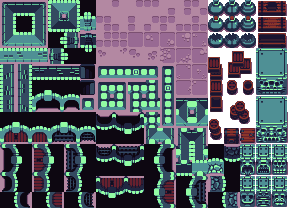
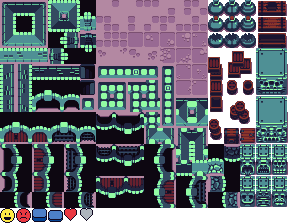
refactor: unite tilesheets

diff --git a/src/main.rs b/src/main.rs
@@ -16,7 +16,6 @@ const LEVEL_WIDTH: usize = 16;
 
 /// Global data passed to all systems
 pub struct Context {
-    spritesheet: Texture2D,
     tileset: Texture2D,
     level: &'static [u8],
 }
@@ -36,10 +35,6 @@ fn window_conf() -> Conf {
 #[macroquad::main(window_conf)]
 async fn main() {
     let context = Context {
-        spritesheet: Texture2D::from_file_with_format(
-            include_bytes!("../assets/sprites.png"),
-            Some(ImageFormat::Png),
-        ),
         tileset: Texture2D::from_file_with_format(
             include_bytes!("../assets/tiles.png"),
             Some(ImageFormat::Png),
@@ -53,9 +48,9 @@ async fn main() {
 
     world.add_entity(|entity| {
         entity
-            .with_component(Pos::new(98, 66))
-            .with_component(Collider::new(11, 11))
-            .with_component(Spr(1))
+            .with_component(Pos::new(96, 64))
+            .with_component(Collider::new(15, 15))
+            .with_component(Spr(235))
             .with_component(HealthMod { health: -1, cooldown: 0 })
     });
 
@@ -63,8 +58,8 @@ async fn main() {
         entity
             .with_component(Pos::new(32, 32))
             .with_component(Vel::new(0, 0))
-            .with_component(Collider::new(16, 16))
-            .with_component(Spr(0))
+            .with_component(Collider::new(15, 15))
+            .with_component(Spr(234))
             .with_component(Player)
             .with_component(Health(10))
     });

diff --git a/src/systems/graphics.rs b/src/systems/graphics.rs
@@ -11,7 +11,7 @@ pub fn draw_sprites(world: &World<Context>, ctx: &Context) {
     let spr = world.get::<Spr>();
     for data in izip!(pos.iter(), spr.iter()) {
         if let (Some(pos), Some(spr)) = data {
-            draw_tile(ctx.spritesheet, spr.0, pos.x as f32, pos.y as f32);
+            draw_tile(ctx.tileset, spr.0, pos.x as f32, pos.y as f32);
         }
     }
 }
